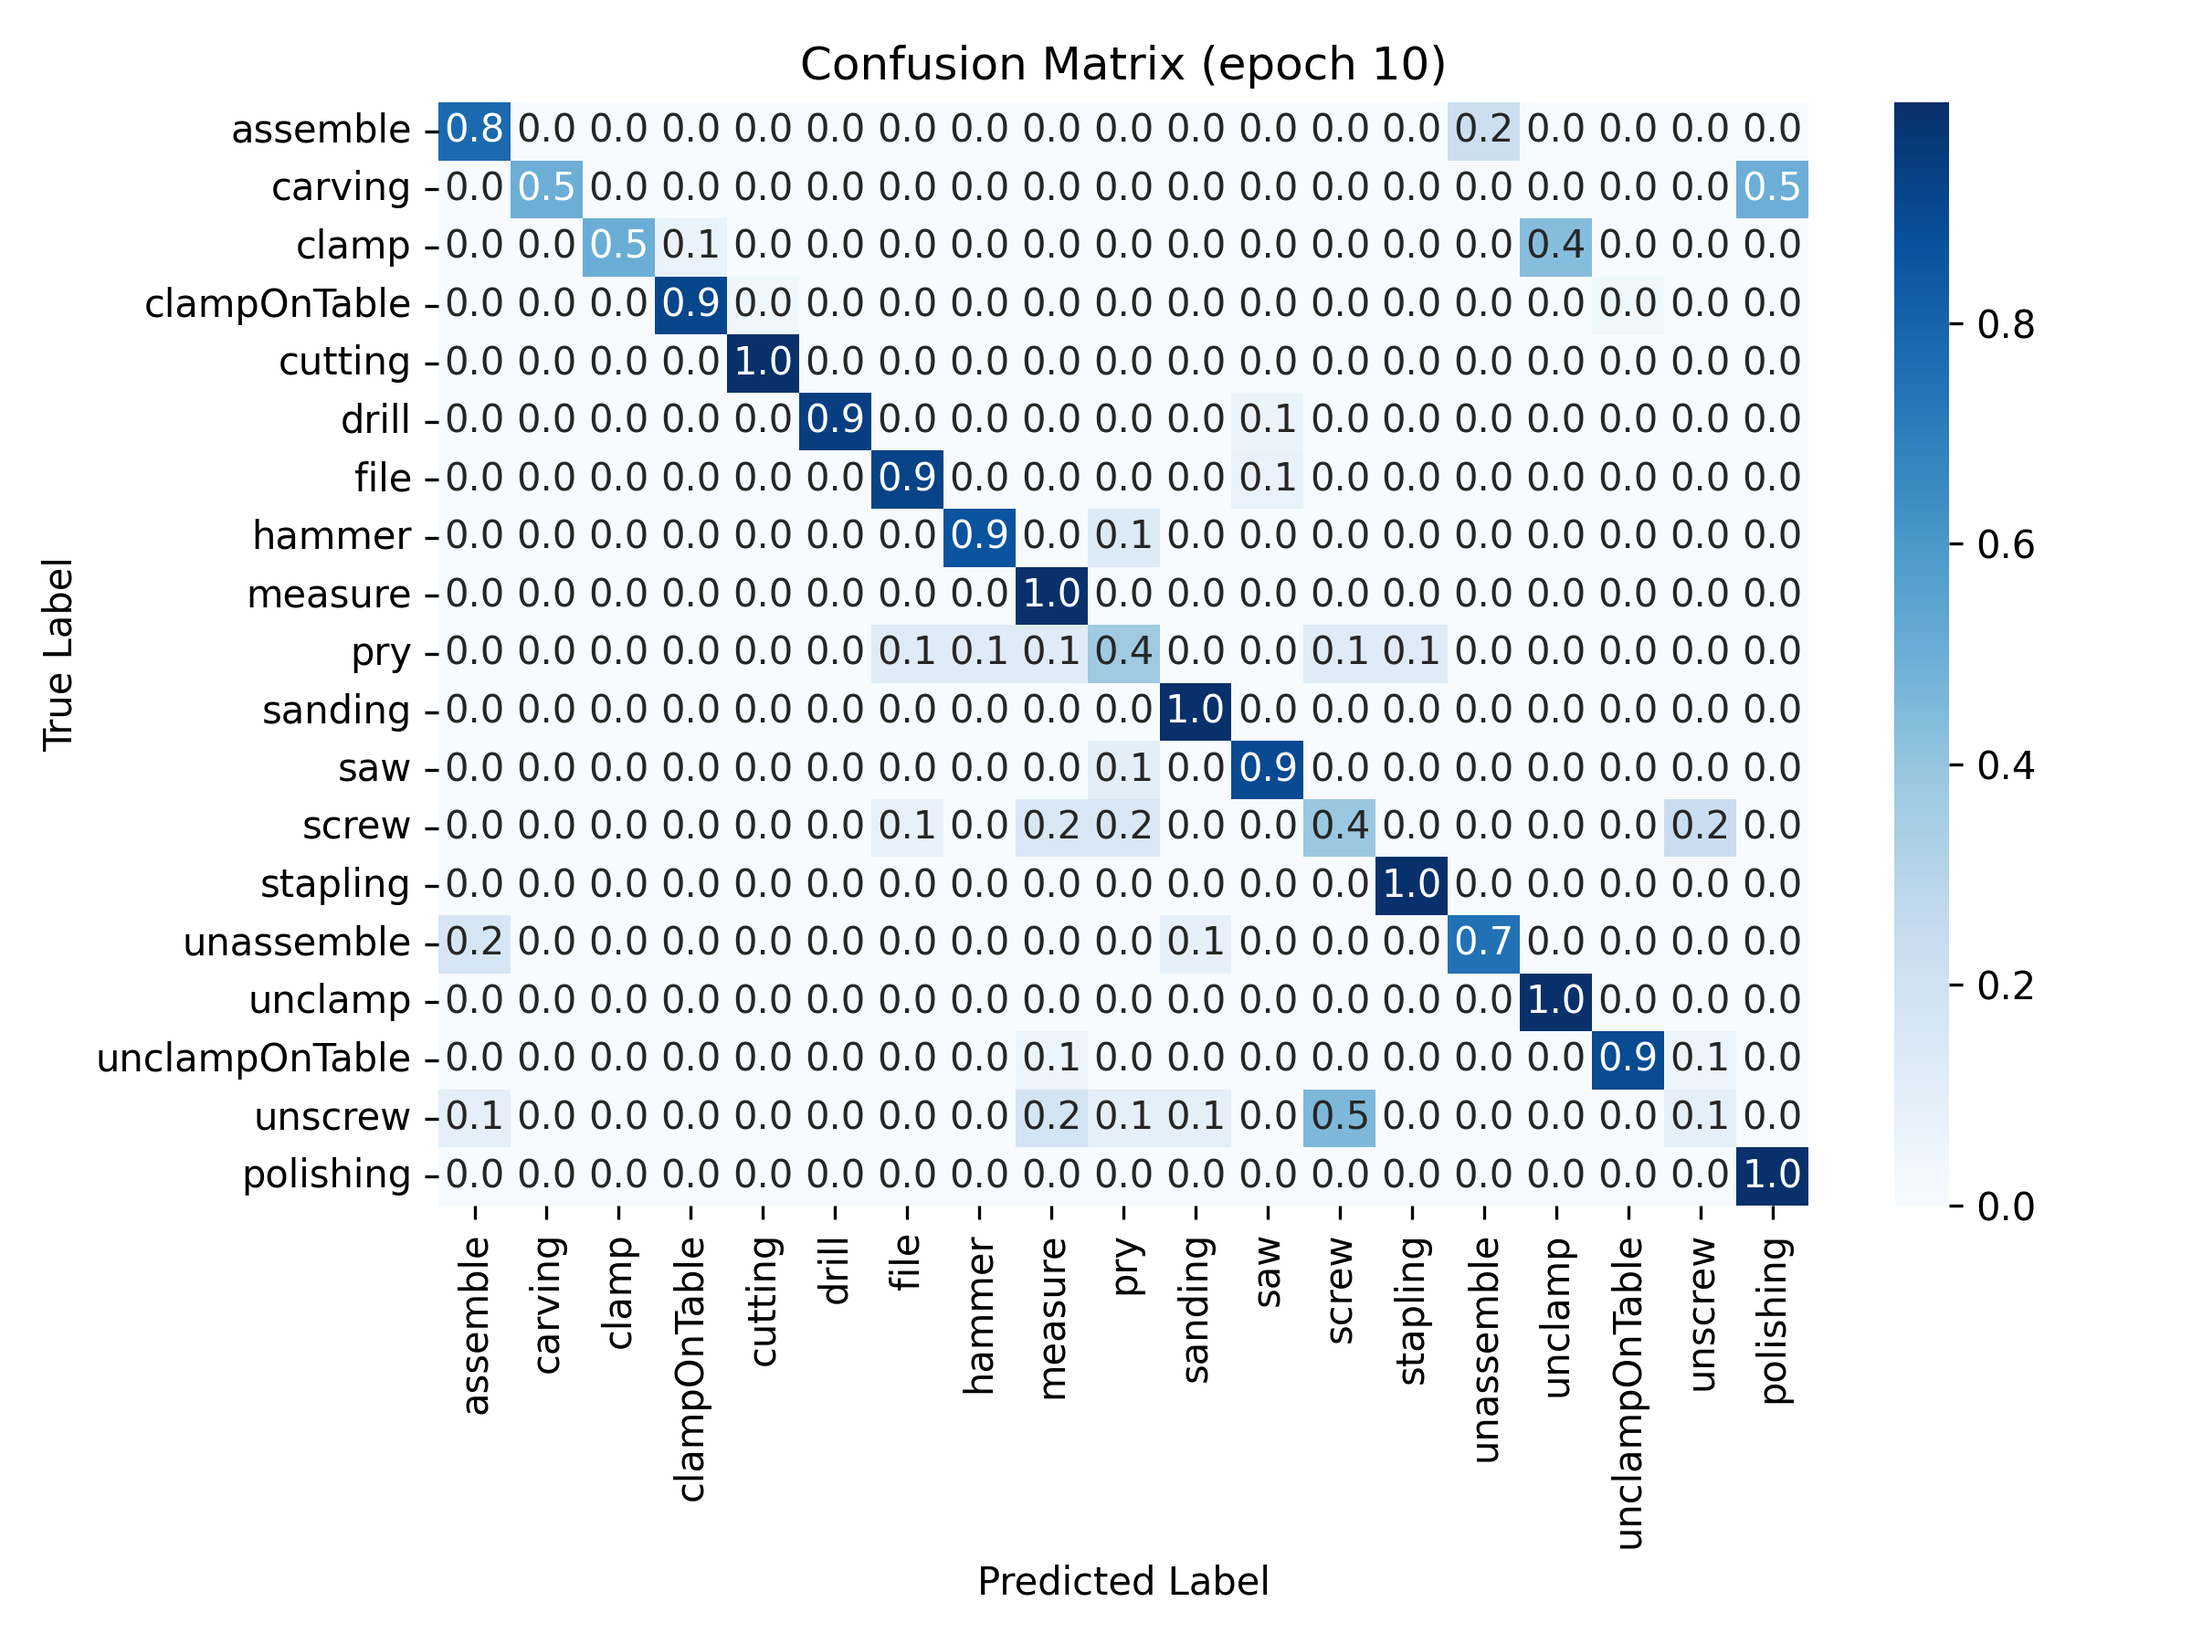
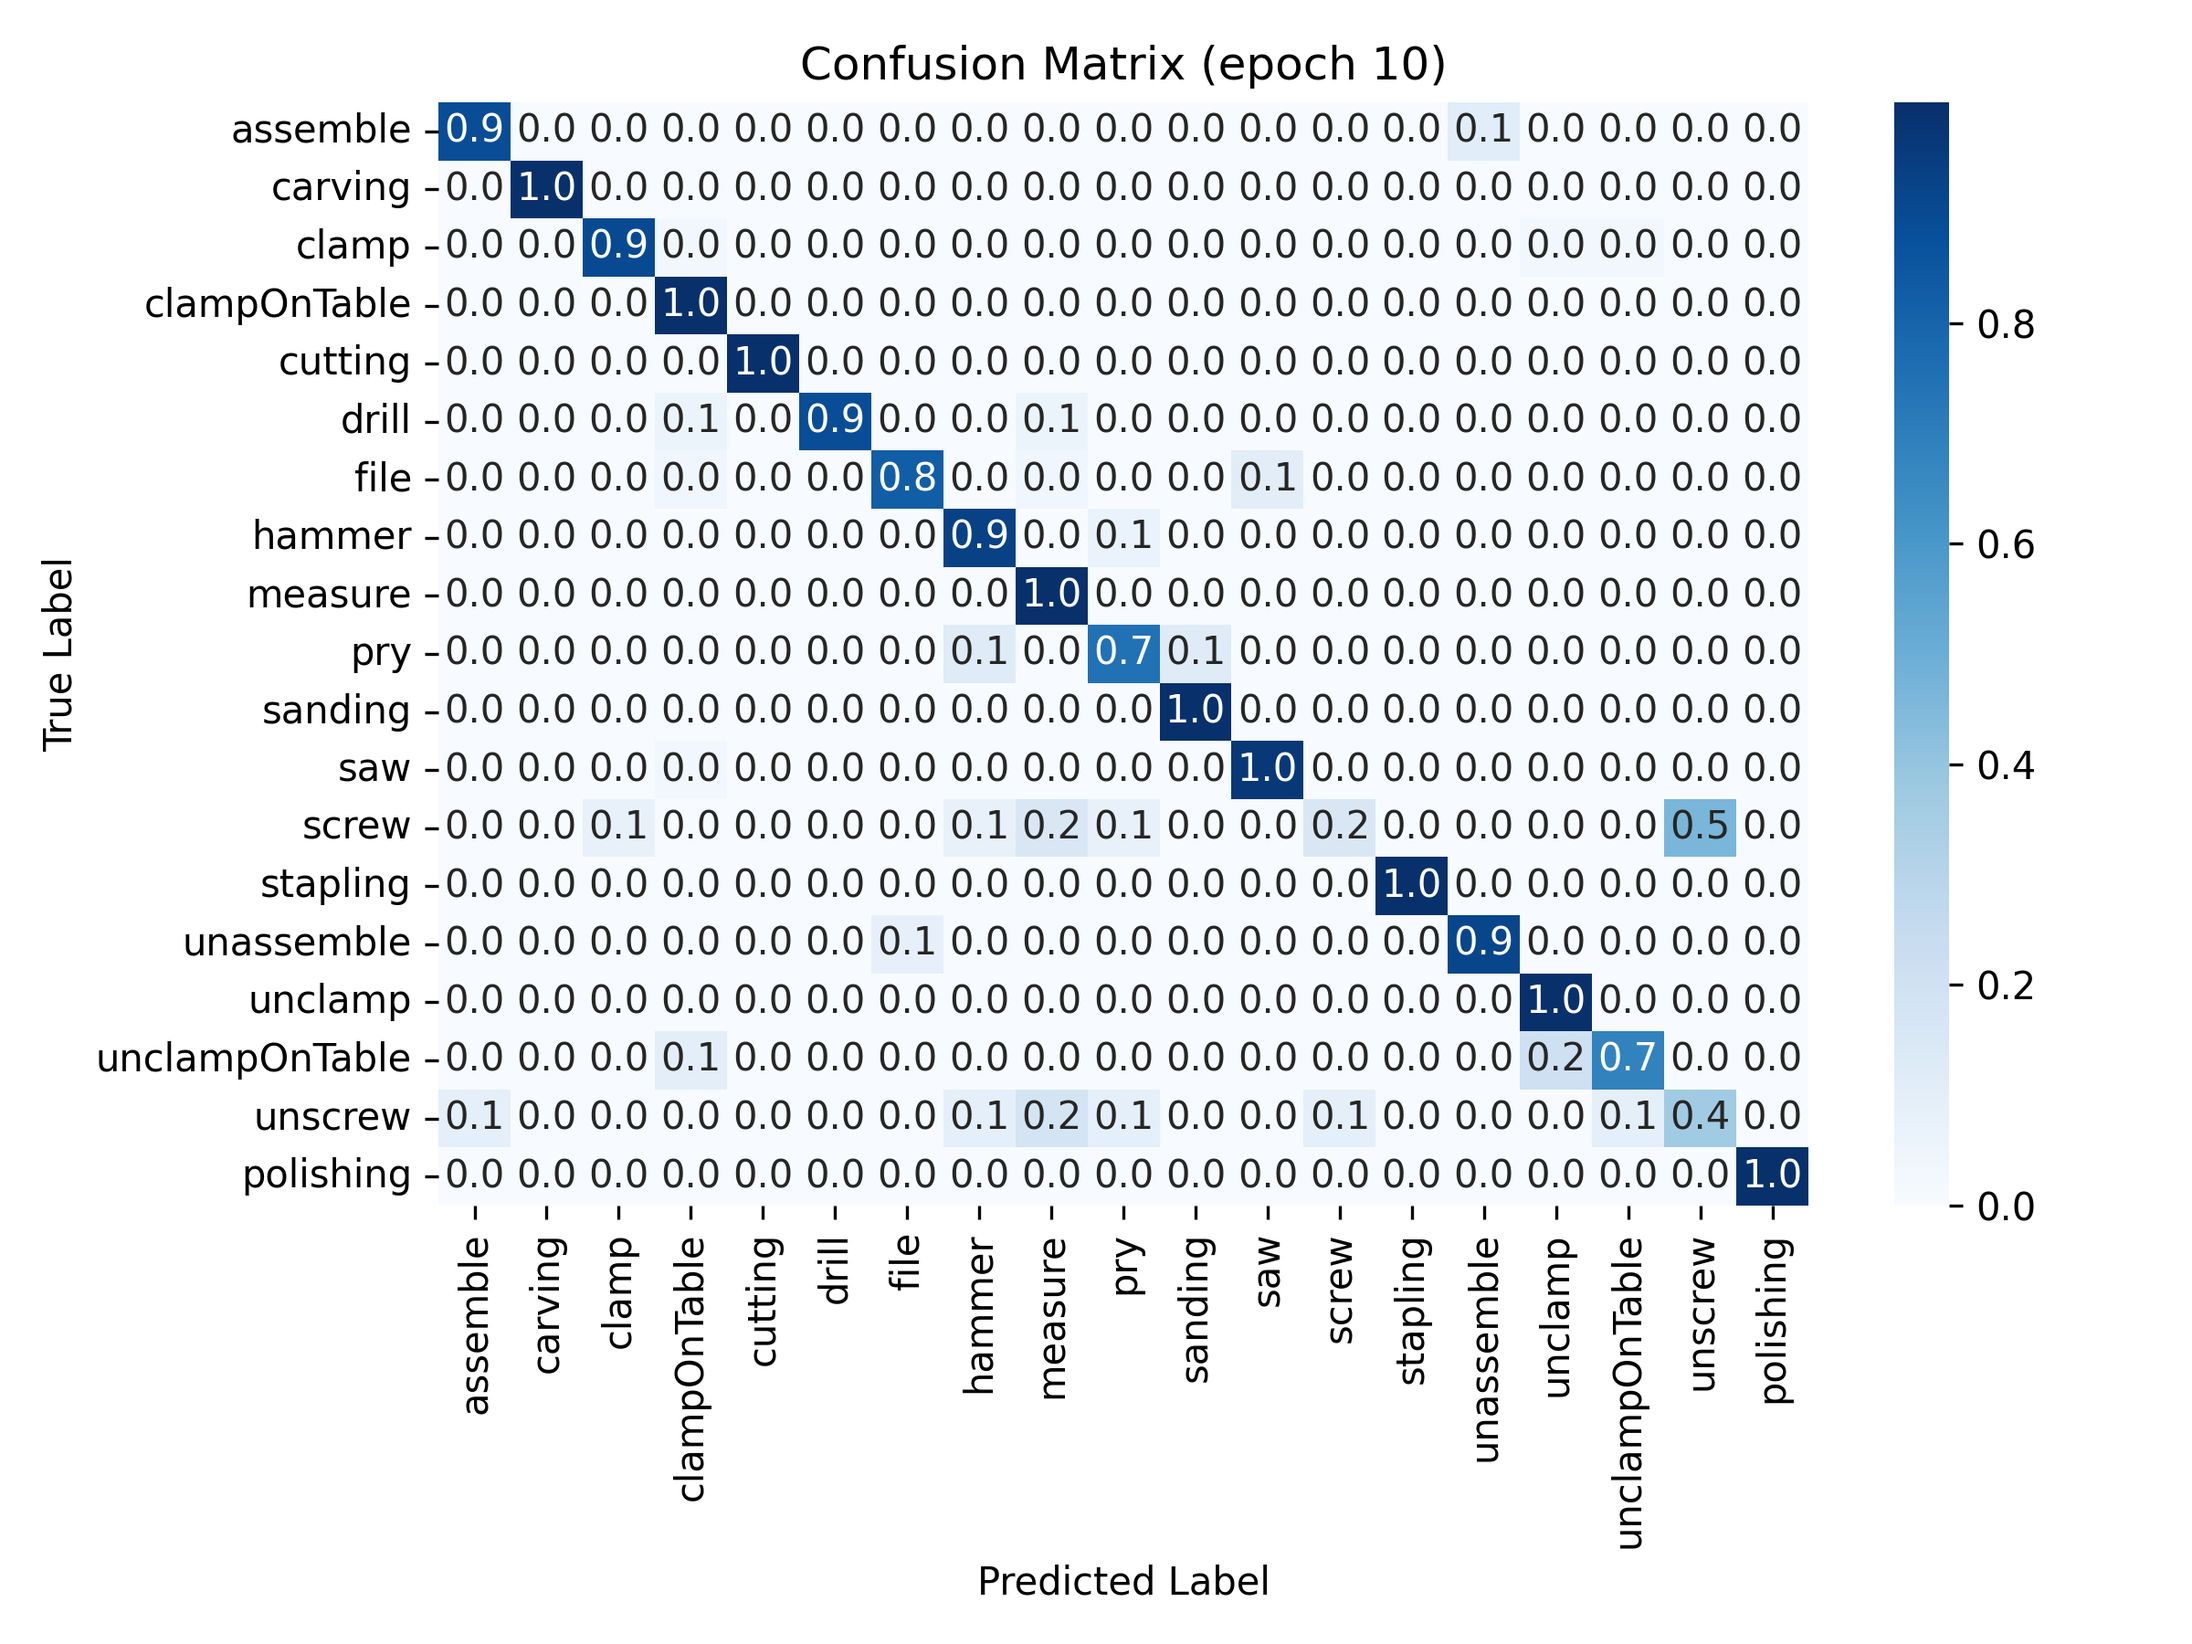
07.05

diff --git a/functional_hand_type/models/htt.py b/functional_hand_type/models/htt.py
@@ -247,15 +247,15 @@ class TemporalNet(torch.nn.Module):
         losses.update(action_losses)
 
         # --- ProxyNCA Loss 계산 ---
-        if train:
-            # ✅ 게이트가 적용된 `gated_rotation_embedding`을 사용하도록 수정
-            embeddings = torch_f.normalize(gated_rotation_embedding, p=2, dim=1)
-            labels = action_results["action_gt_labels"]
+        # if train:
+        #     # ✅ 게이트가 적용된 `gated_rotation_embedding`을 사용하도록 수정
+        #     embeddings = torch_f.normalize(gated_rotation_embedding, p=2, dim=1)
+        #     labels = action_results["action_gt_labels"]
 
-            contrastive_loss = self._compute_proxynca_loss(embeddings, labels)
+        #     contrastive_loss = self._compute_proxynca_loss(embeddings, labels)
 
-            total_loss += self.lambda_contrastive_loss * contrastive_loss
-            losses["Proxynce_loss"] = contrastive_loss.detach()
+        #     total_loss += self.lambda_contrastive_loss * contrastive_loss
+        #     losses["Proxynce_loss"] = contrastive_loss.detach()
 
         return total_loss, results, losses
 

diff --git a/functional_hand_type/train.py b/functional_hand_type/train.py
@@ -153,7 +153,7 @@ def main(args):
             epoch=epoch_idx)
 
         # if epoch_idx%args.snapshot==0:
-        if epoch_idx in [5, 8, 10, 20, 30, 45]:
+        if epoch_idx in [5, 8, 10, 20, 30, 35, 40, 45]:
             modelio.save_checkpoint(
                 {
                     "epoch": epoch_idx, 
@@ -171,10 +171,10 @@ def main(args):
 if __name__ == "__main__":
     torch.multiprocessing.set_sharing_strategy("file_system")
     parser = argparse.ArgumentParser() 
-    parser.add_argument('--experiment_tag',default='proxy_train') 
+    parser.add_argument('--experiment_tag',default='no_proxy_loss') 
     parser.add_argument('--dataset_folder',default=DATA_ROOT_PATH)
     parser.add_argument('--cache_folder',default='./gibson/ckpts/')
-    parser.add_argument('--resume_path',default=None)
+    parser.add_argument('--resume_path',default="/home/kcy/Desktop/hands_rotation/functional_hand_type/gibson/ckpts/proxy_train/checkpoint_30.pth")
 
     #Transformer parameters
     parser.add_argument("--ntokens_pose", type=int, default=16, help="N tokens for P")

diff --git a/functional_hand_type/eval.py b/functional_hand_type/eval.py
@@ -120,12 +120,12 @@ if __name__ == "__main__":
     parser = argparse.ArgumentParser()
 
     # Base params
-    parser.add_argument('--experiment_tag',default='rotate_eval')    
+    parser.add_argument('--experiment_tag',default='proxy_eval')    
     parser.add_argument('--is_demo', action="store_true", help="show demo result")  
 
     parser.add_argument('--dataset_folder',default=DATA_ROOT_PATH)
     parser.add_argument('--cache_folder',default='./gibson/ckpts/')
-    parser.add_argument('--resume_path',default='./gibson/ckpts/rotate_train/checkpoint_5.pth')
+    parser.add_argument('--resume_path',default='./gibson/ckpts/proxy_train/checkpoint_40.pth')
 
     #Transformer parameters
     parser.add_argument("--ntokens_pose", type=int, default=16, help="N tokens for P")
